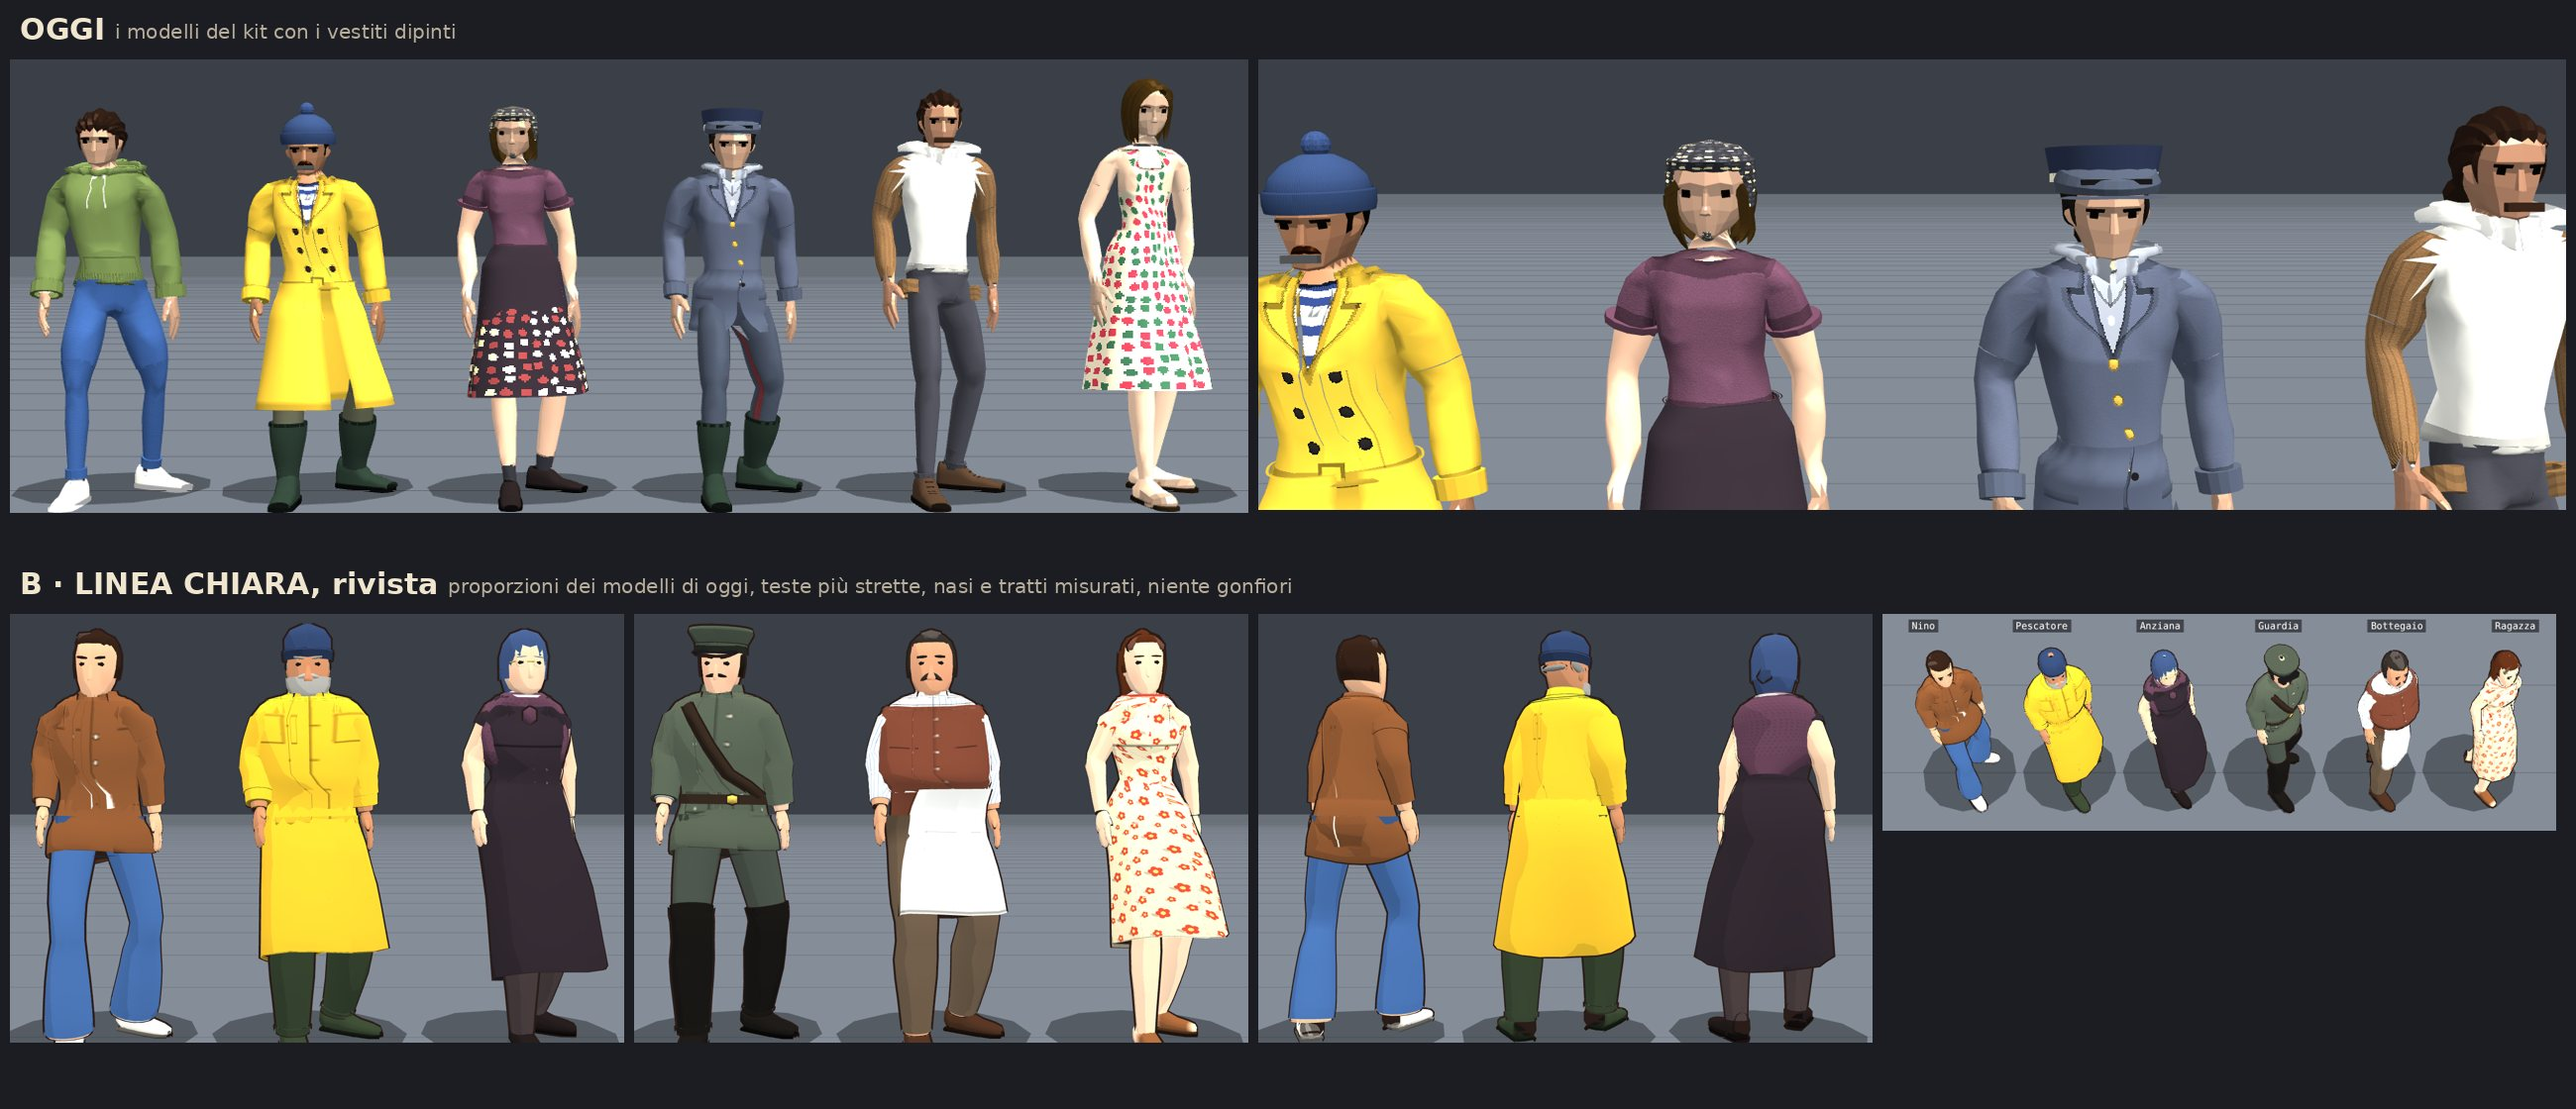
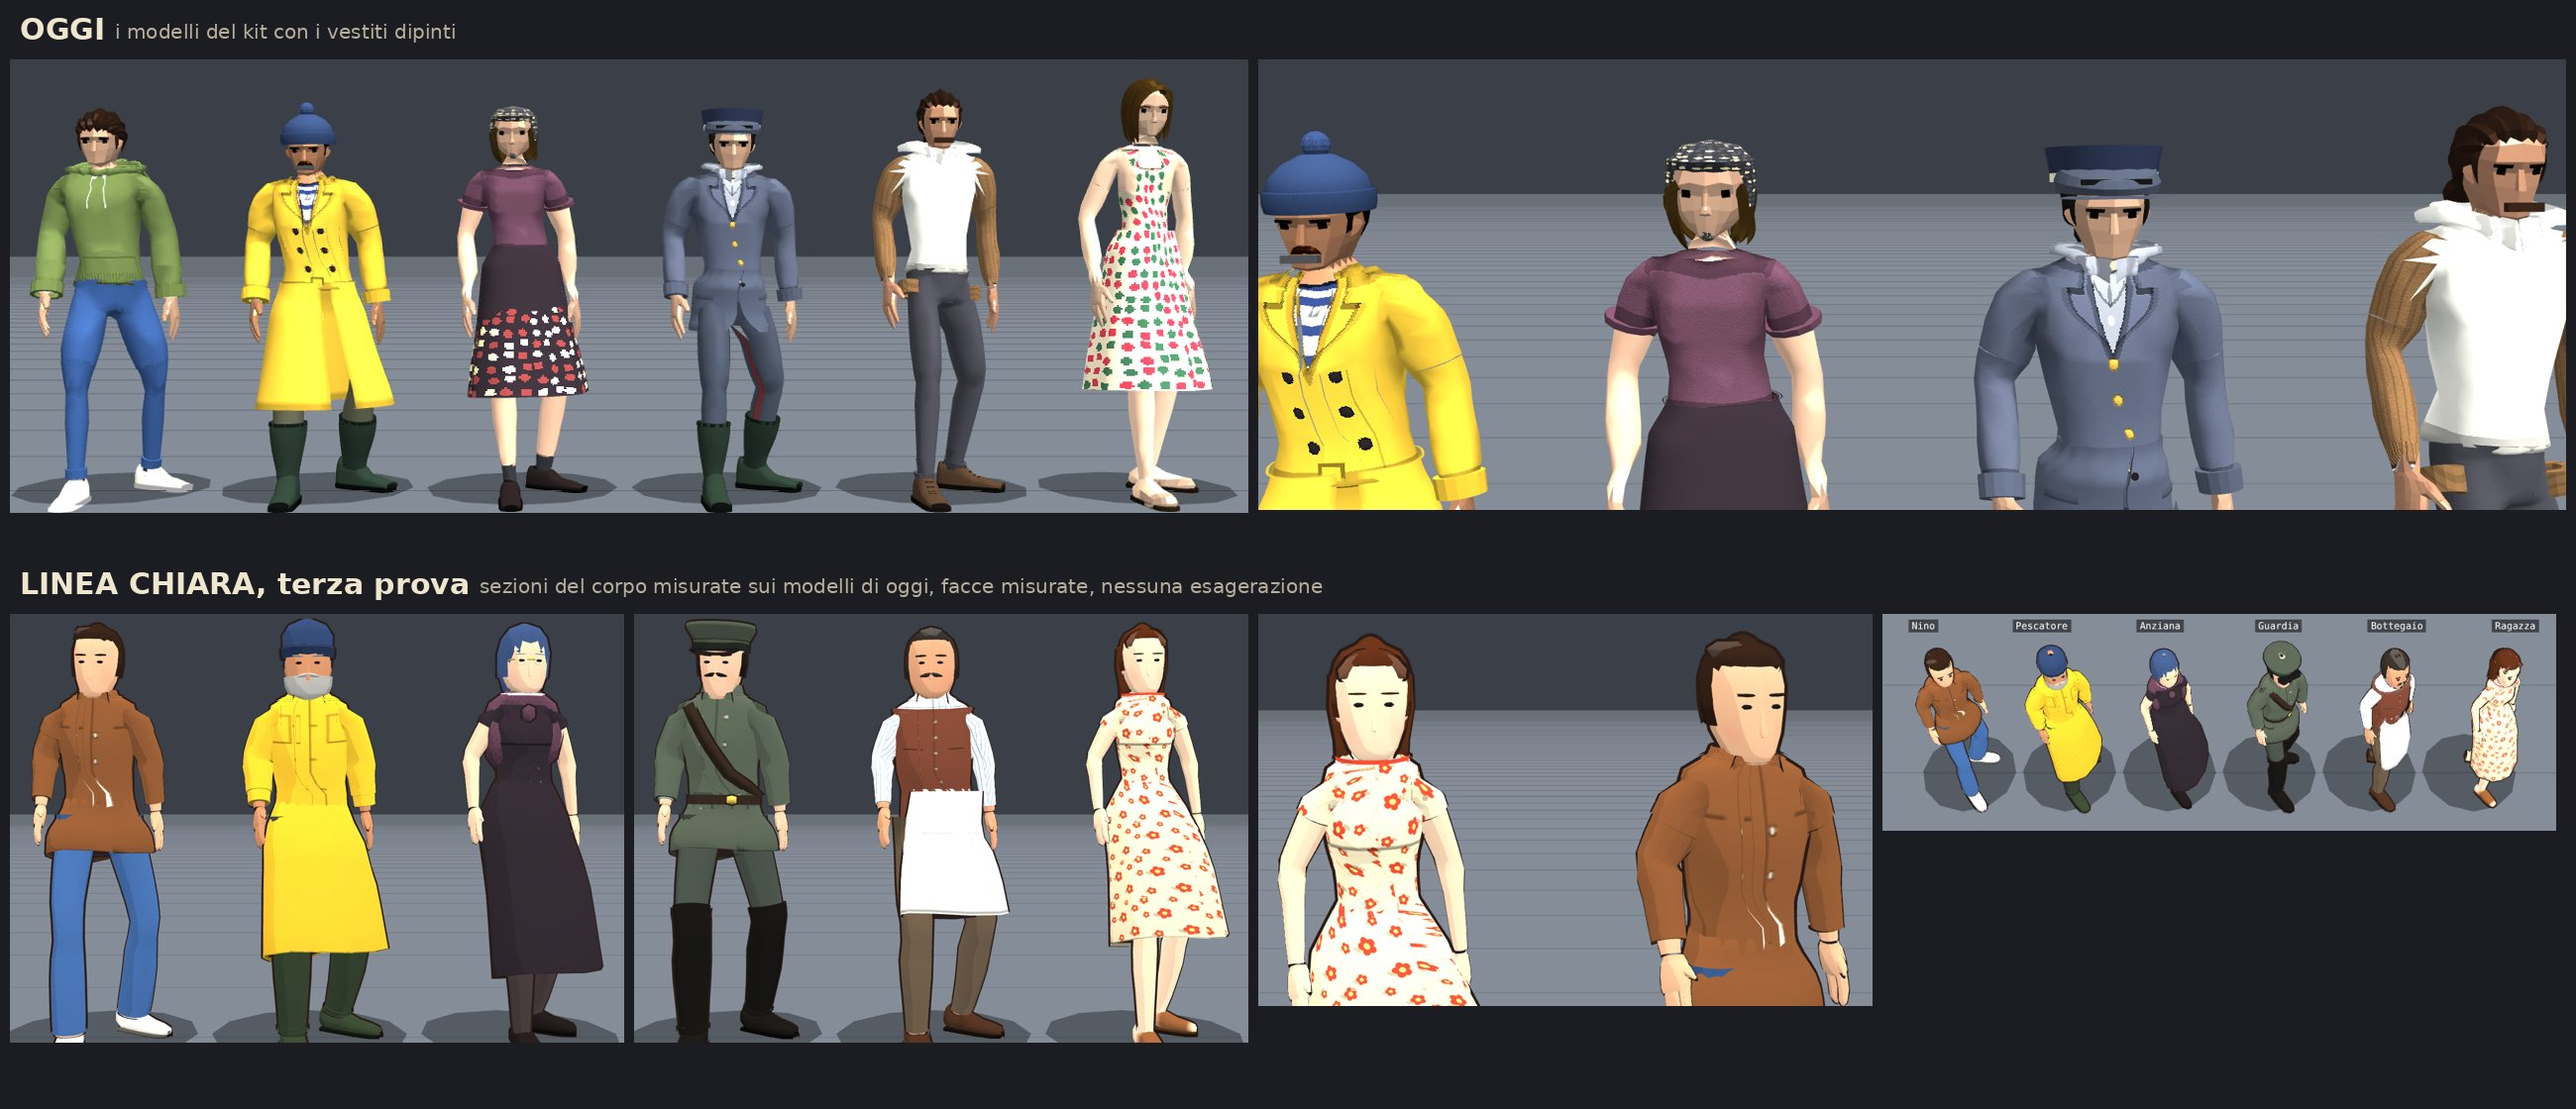
[personaggi] proporzioni misurate sui modelli di oggi, niente caricatura
Busto, braccia e gambe con le sezioni prese dai modelli del kit (Casual_2, Casual) nella posa a T;
teste della misura di oggi, occhi leggibili, mento meno a punta, pance e zampe ridotte;
falde e cerate più ampie quanto serve perché le gambe non le buchino.

Claude-Session: https://claude.ai/code/session_01JZTxbDaFvr9eJLacMLFKTo

diff --git a/v7/src/personaggi.js b/v7/src/personaggi.js
@@ -25,7 +25,7 @@ var Personaggi = (function () {
   // =====================================================================================
   const STILI = {
     a: { nome: 'Statuina dipinta', testa: 1, mani: 1, piedi: 1, naso: 1, p: 2.25, seg: 16, spalle: 1, toon: 0, contorno: 0 },
-    b: { nome: 'Linea chiara', testa: 1, mani: 1, piedi: 1, naso: .7, p: 2.12, seg: 16, spalle: 1, toon: 3, contorno: .008 },
+    b: { nome: 'Linea chiara', testa: 1.08, mani: 1, piedi: 1, naso: .6, p: 2.12, seg: 16, spalle: 1, toon: 3, contorno: .008 },
     c: { nome: 'Carosello', testa: 1.55, mani: 1.4, piedi: 1.35, naso: 1.8, p: 2.0, seg: 16, spalle: .9, toon: 3, contorno: 0 },
   };
   const S = () => STILI[CFG.stile] || STILI.a;
@@ -107,19 +107,20 @@ var Personaggi = (function () {
   // =====================================================================================
   // busto: [quota relativa (0 inguine … 1 collo), mezza larghezza, mezza profondità, spostamento in avanti]
   const BUSTO = {
-    m: [[0, .135, .1, .0], [.12, .165, .112, .0], [.3, .148, .1, .01], [.45, .152, .105, .02], [.66, .18, .115, .02], [.84, .19, .105, .0], [.93, .15, .09, -.01], [1, .06, .058, .0]],
-    f: [[0, .14, .1, .0], [.12, .175, .118, -.01], [.34, .118, .085, .01], [.5, .125, .09, .02], [.66, .15, .11, .035], [.82, .155, .095, .0], [.93, .12, .08, -.01], [1, .05, .05, .0]],
+    // [misure] prese dai modelli del kit (Casual_2, Casual) nella posa a T: stesse larghezze e profondità di oggi
+    m: [[0, .118, .09, .0], [.14, .132, .098, .0], [.34, .12, .094, .01], [.52, .122, .098, .015], [.68, .136, .104, .015], [.8, .148, .1, .0], [.9, .14, .086, -.01], [1, .058, .056, .0]],
+    f: [[0, .124, .09, .0], [.14, .14, .1, -.008], [.36, .1, .078, .008], [.52, .106, .082, .018], [.66, .118, .1, .03], [.8, .124, .088, .0], [.91, .112, .074, -.01], [1, .048, .048, .0]],
   };
   function corpoDi(D, J) {
     const st = S(), f = D.sesso === 'f', C = D.corpo || {}, pan = C.pancia || 0, rob = C.robusto || 1, spa = (C.spalle || 1) * st.spalle;
     const yN = J.Neck[1], yC = J.UpperLegL[1] - .07, prof = BUSTO[f ? 'f' : 'm'].map(([q, a, b, fz]) => {
       let A = a * rob, Bz = b * rob, F = fz;
       if (q > .6 && q < .95) A *= lerp(1, spa, sm((q - .6) / .25));
-      if (q > .25 && q < .7) { const k = Math.sin((q - .25) / .45 * Math.PI); A += pan * .05 * k; Bz += pan * .09 * k; F += pan * .06 * k; }
+      if (q > .2 && q < .72) { const k = Math.sin((q - .2) / .52 * Math.PI); A += pan * .03 * k; Bz += pan * .06 * k; F += pan * .04 * k; }
       if (q < .3 && C.fianchi) A *= 1 + (C.fianchi - 1) * Math.sin(q / .3 * Math.PI * .5 + .5);
       return [lerp(yC, yN + .045, q), A, Bz, F];
     });
-    return { prof, gamba: (f ? .085 : .088) * rob * (1 + pan * .15), braccio: (f ? .052 : .06) * rob, pan };
+    return { prof, gamba: (f ? .07 : .074) * rob * (1 + pan * .1), braccio: (f ? .04 : .046) * rob, pan };
   }
 
   // =====================================================================================
@@ -177,7 +178,7 @@ var Personaggi = (function () {
     tuta: { busto: [-.02, .97, .012], braccio: [0, .95, .012], gamba: [-.05, .96, .012], tile: 'tuta', orlo: .03, colletto: 'camicia' },
     abito: { busto: [-.02, .97, .006], braccio: [0, .25, .006], tile: 'abito', orlo: .02, gonna: [.3, .62, 1.3], colletto: 'tondo' },
     pantaloni: { gamba: [-.06, .985, .008], orlo: .02, bacino: .008 },
-    zampa: { gamba: [-.06, .99, .008], orlo: .02, zampa: .06, bacino: .008 },
+    zampa: { gamba: [-.06, .99, .008], orlo: .02, zampa: .03, bacino: .008 },
     pantaloncini: { gamba: [-.06, .3, .008], orlo: .03, bacino: .008 },
     gonna: { gonna: [.3, .56, 1.25], bacino: .006 },
     grembiule: { grembiule: [.4, .95] },
@@ -233,7 +234,7 @@ var Personaggi = (function () {
       const xs = [Math.abs(jS[0]), Math.abs(j0[0]), Math.abs(j1[0]), Math.abs(j2[0])], L0 = xs[1] - .07, L1 = xs[3];
       const geomA = t => {   // t: 0 dentro la spalla … 1 al polso
         const x = lerp(L0, L1, t), u = cl((x - xs[1]) / (xs[3] - xs[1]), 0, 1), ue = (x - xs[1]) / (xs[2] - xs[1]);
-        const r = K.braccio * (t < .18 ? lerp(1.25, 1.18, t / .18) : u < .25 ? lerp(1.18, 1, (u) / .25) : u < .45 ? lerp(1, .84, (u - .25) / .2) : u < .55 ? lerp(.84, .9, (u - .45) / .1) : lerp(.9, .62, (u - .55) / .45));
+        const r = K.braccio * (t < .18 ? lerp(1.12, 1.08, t / .18) : u < .25 ? lerp(1.08, 1, (u) / .25) : u < .45 ? lerp(1, .84, (u - .25) / .2) : u < .55 ? lerp(.84, .9, (u - .45) / .1) : lerp(.9, .62, (u - .55) / .45));
         const y = lerp(j0[1], j2[1], u) - (t < .2 ? .015 * (1 - t / .2) : 0), z = lerp(j0[2], j2[2], u) - .005;
         return { c: [sg * x, y, z], t: [sg, 0, 0], f: [0, 0, 1], a: r * (u > .55 ? .82 : 1), b: r, ao: t < .15 ? .85 : 1, w: catena(x, xs, ['Shoulder' + sd, 'UpperArm' + sd, 'LowerArm' + sd, 'Wrist' + sd], [0, .03, .035, .02]) };
       };
@@ -309,10 +310,10 @@ var Personaggi = (function () {
   }
   // ---------------- LA TESTA: cranio, mascella, naso, orecchie, sopracciglia, occhi, bocca, capelli a ciocche, baffi, barbe, occhiali, cappelli ----------------
   const TESTE = {   // [quota, mezza larghezza, mezza profondità, avanti] dal mento alla sommità (in metri, prima della scala dello stile)
-    ovale: [[-.045, .018, .018, .07], [-.035, .036, .034, .056], [-.012, .058, .066, .03], [.03, .074, .09, .012], [.085, .083, .1, .0], [.135, .086, .104, -.006], [.18, .079, .094, -.012], [.215, .056, .068, -.016], [.235, .014, .02, -.016]],
+    ovale: [[-.04, .03, .02, .062], [-.03, .045, .038, .05], [-.012, .058, .066, .03], [.03, .074, .09, .012], [.085, .083, .1, .0], [.135, .086, .104, -.006], [.18, .079, .094, -.012], [.215, .056, .068, -.016], [.235, .014, .02, -.016]],
     quadra: [[-.045, .026, .02, .07], [-.035, .048, .04, .055], [-.012, .068, .07, .03], [.03, .08, .092, .012], [.085, .086, .1, .0], [.135, .087, .103, -.006], [.18, .081, .094, -.012], [.21, .06, .07, -.015], [.232, .018, .024, -.015]],
     tonda: [[-.04, .02, .02, .065], [-.03, .044, .044, .05], [-.01, .068, .074, .028], [.03, .084, .095, .01], [.085, .09, .102, .0], [.135, .089, .103, -.006], [.18, .08, .093, -.012], [.21, .057, .066, -.015], [.228, .015, .02, -.015]],
-    lunga: [[-.055, .018, .018, .072], [-.045, .034, .032, .058], [-.018, .055, .064, .032], [.03, .071, .088, .012], [.09, .08, .099, .0], [.14, .082, .102, -.006], [.19, .075, .093, -.012], [.225, .053, .065, -.016], [.245, .012, .018, -.016]],
+    lunga: [[-.048, .03, .02, .064], [-.038, .044, .036, .052], [-.018, .055, .064, .032], [.03, .071, .088, .012], [.09, .08, .099, .0], [.14, .082, .102, -.006], [.19, .075, .093, -.012], [.225, .053, .065, -.016], [.245, .012, .018, -.016]],
   };
   function testa(B, J, D, pelle) {
     const st = S(), T = D.testa || {}, K = st.testa * (T.scala || 1) * (D.sesso === 'f' ? .95 : 1), h = J.Head, base = [h[0], h[1] - .01 * K, h[2] - .005], wH = [['Head', 1]];
@@ -331,11 +332,11 @@ var Personaggi = (function () {
     // le orecchie
     [1, -1].forEach(s => uovo(B, at(.075, s * (wid(.075) - .004), -.012), [0, 1, 0], .012 * K, .02 * K, .03 * K, mulc(pelle, .93), wH, { anelli: 4, seg: 7 }));
     // gli occhi: mandorle scure con un punto di bianco sopra (da vicino), e le sopracciglia del carattere
-    const ey = .095, ez = front(ey) - .014;
+    const ey = .093, ez = front(ey) - .007;
     [1, -1].forEach(s => {
-      uovo(B, at(ey, s * .036, ez), [1, 0, 0], .012 * K, .01 * K, .016 * K, occ, wH, { anelli: 3, seg: 6, f: [0, 1, 0] });
+      uovo(B, at(ey, s * .034, ez), [1, 0, 0], .011 * K, .006 * K, .013 * K, occ, wH, { anelli: 3, seg: 6, f: [0, 1, 0] });
       const sb = T.sopracciglia || 0, br = T.brow || .9;   // -1 accigliato, +1 preoccupato
-      loft(B, [0, .5, 1].map(q => ({ c: at(ey + .026 + (q - .5) * sb * s * .0 - (sb * (q - .5) * .012), s * (.014 + q * .044), front(ey + .026) - .002 - Math.abs(q - .5) * .012), t: [s, 0, 0], f: [0, 0, 1], a: (.006 - Math.abs(q - .5) * .004) * K * br * (D.sesso === 'f' ? .7 : 1.15), b: .006 * K, p: 2.5, col: mulc(capH, .8), w: wH })), { seg: 6 });
+      loft(B, [0, .5, 1].map(q => ({ c: at(ey + .026 + (q - .5) * sb * s * .0 - (sb * (q - .5) * .012), s * (.014 + q * .044), front(ey + .026) - .002 - Math.abs(q - .5) * .012), t: [s, 0, 0], f: [0, 0, 1], a: (.0045 - Math.abs(q - .5) * .003) * K * br * (D.sesso === 'f' ? .7 : 1), b: .005 * K, p: 2.5, col: mulc(capH, .8), w: wH })), { seg: 6 });
     });
     // la bocca: una linea, piegata dall'umore
     { const my = .032, mz = front(my) - .003, um = T.umore || 0; loft(B, [-1, 0, 1].map(q => ({ c: at(my + Math.abs(q) * um * .006, q * .022, mz - Math.abs(q) * .008), t: [1, 0, 0], f: [0, 0, 1], a: .005 * K, b: .004 * K, col: labbra, w: wH })), { seg: 6 }); }
@@ -425,7 +426,7 @@ var Personaggi = (function () {
     const sp = .008, legX = Math.abs(J.UpperLegL[0]);
     for (let j = 0; j <= n; j++) {
       const q = j / n, y = lerp(yTop, yBot, q), P0 = profAt(Math.max(y, J.UpperLegL[1] - .06));
-      const baseA = Math.max(P0[0] + .015, legX - .022 + K.gamba * 1.08 + .02), baseB = Math.max(P0[1] + .015, K.gamba + (g[1] > .4 ? .07 : .06));
+      const baseA = Math.max(P0[0] + .015, legX - .022 + K.gamba * 1.08 + .035), baseB = Math.max(P0[1] + .015, K.gamba + (g[1] > .4 ? .095 : .065));
       const qh = cl((yTop - y) / Math.max(.05, yTop - (J.UpperLegL[1] - .05)), 0, 1), k = lerp(1, fl, Math.pow(q, 1.3)), a = lerp(P0[0] + sp + .006 * (falda ? 2.5 : 1), baseA * k, sm(qh)), b = lerp(P0[1] + sp + .006 * (falda ? 2.5 : 1), baseB * k, sm(qh));
       rings.push({ c: [0, y, zAt(Math.max(y, J.Hips[1] - .05)) - .005], t: [0, -1, 0], f: [0, 0, 1], a, b, fz: q > .3 && !falda ? .01 : P0[2] * (1 - sm(q * 2)), col: C3v(v.col), col2: v.col2 ? C3v(v.col2) : mulc(C3v(v.col), .6), col3: v.col3 ? C3v(v.col3) : mulc(C3v(v.col), .55), v: q, mv: q * (yTop - yBot), ao: lerp(1, .92, q), tile: falda ? tile : TL.abito * 0, ptile,
         mod: th => { const fr = Math.cos(th); let d = Math.sin(th * (falda ? 6 : 9)) * .035 * sm(q * 1.4); return d; } });
